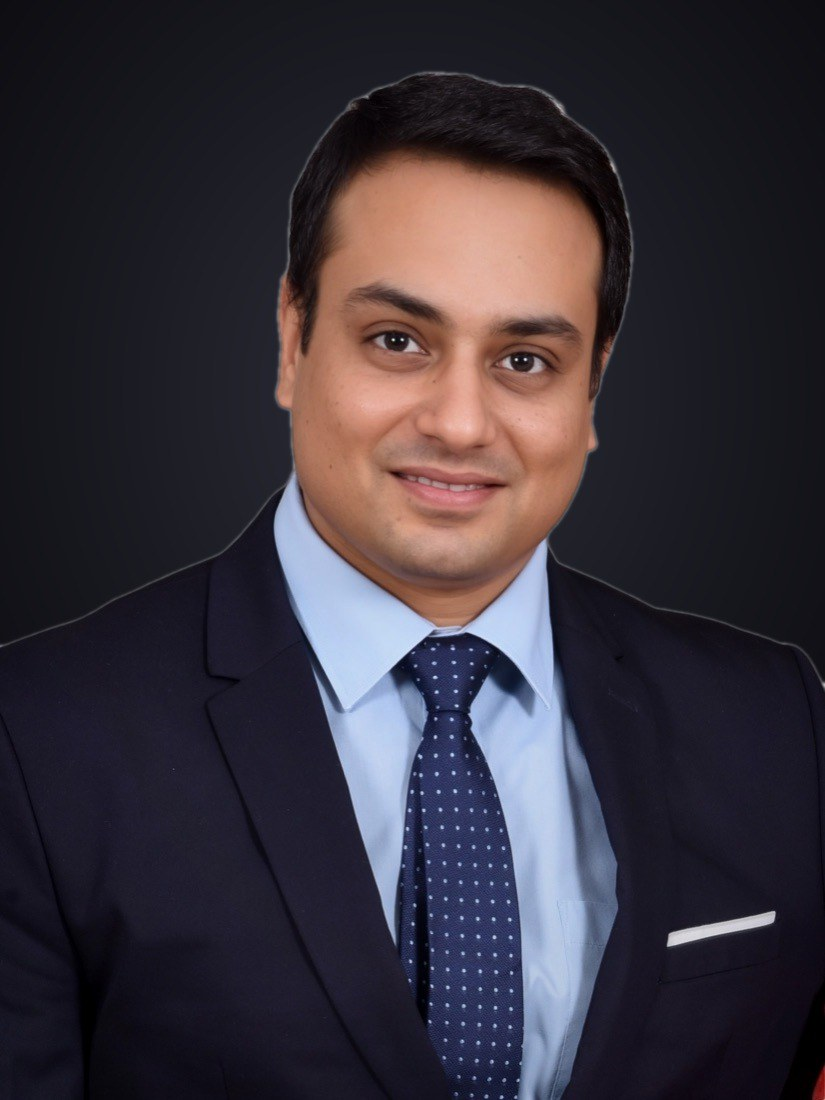
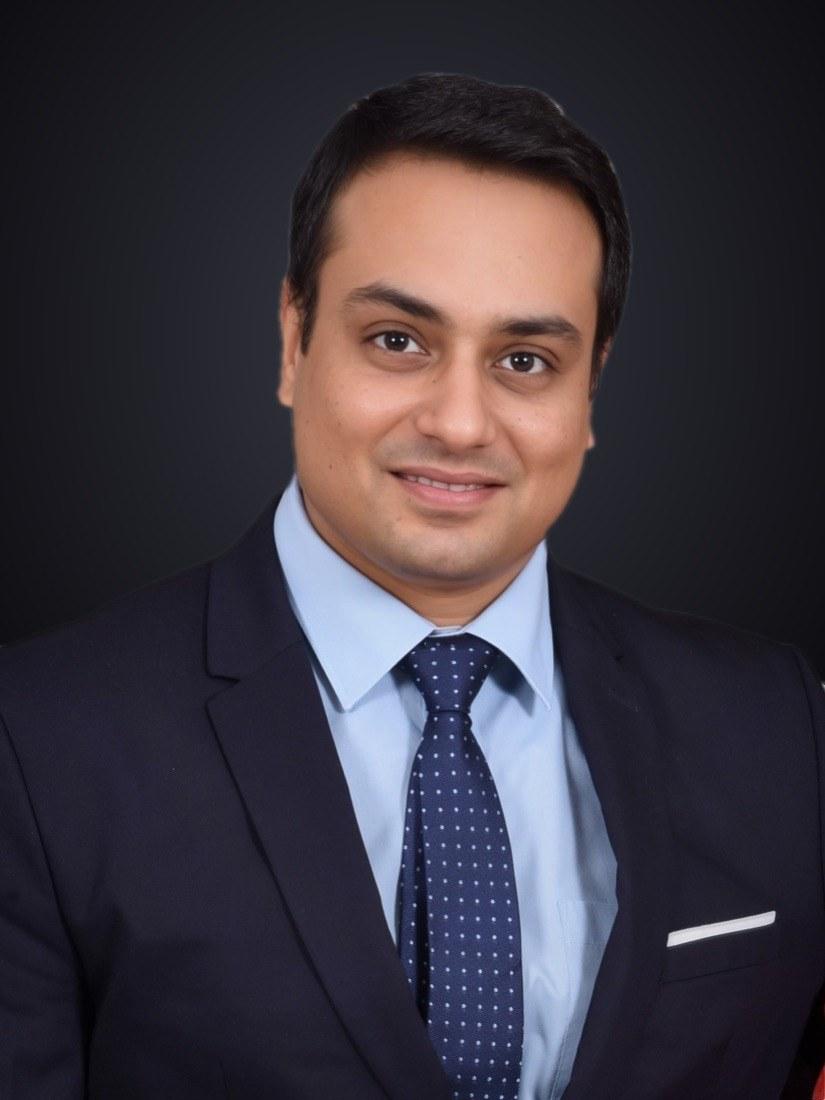
Rework studio headshot: lighter graduated backdrop, suit separation, clean edges (v3)

diff --git a/index.html b/index.html
@@ -12,8 +12,8 @@
 <meta property="og:url" content="https://vaibhav-sn-ai.netlify.app/" />
 <meta property="og:title" content="Vaibhav Aggarwal · Head of Applied AI" />
 <meta property="og:description" content="ServiceNow AI Specialist. Builder of Dev Accelerator and the Knowledge Quality Accelerator. Handpicked by the ServiceNow Customer Excellence Group. 30,000+ followers." />
-<meta property="og:image" content="https://vaibhav-sn-ai.netlify.app/og-image.jpg?v=2" />
-<meta property="og:image:secure_url" content="https://vaibhav-sn-ai.netlify.app/og-image.jpg?v=2" />
+<meta property="og:image" content="https://vaibhav-sn-ai.netlify.app/og-image.jpg?v=3" />
+<meta property="og:image:secure_url" content="https://vaibhav-sn-ai.netlify.app/og-image.jpg?v=3" />
 <meta property="og:image:type" content="image/jpeg" />
 <meta property="og:image:width" content="1200" />
 <meta property="og:image:height" content="630" />
@@ -21,7 +21,7 @@
 <meta name="twitter:card" content="summary_large_image" />
 <meta name="twitter:title" content="Vaibhav Aggarwal · Head of Applied AI" />
 <meta name="twitter:description" content="ServiceNow AI Specialist. Builder of Dev Accelerator and the Knowledge Quality Accelerator. 30,000+ followers." />
-<meta name="twitter:image" content="https://vaibhav-sn-ai.netlify.app/og-image.jpg?v=2" />
+<meta name="twitter:image" content="https://vaibhav-sn-ai.netlify.app/og-image.jpg?v=3" />
 <link rel="preconnect" href="https://fonts.googleapis.com" />
 <link rel="preconnect" href="https://fonts.gstatic.com" crossorigin />
 <link href="https://fonts.googleapis.com/css2?family=Playfair+Display:ital,wght@0,400;0,500;0,600;0,700;1,400;1,500&family=Inter:wght@300;400;500;600;700&family=Manrope:wght@400;500;600;700;800&display=swap" rel="stylesheet" />
@@ -663,7 +663,7 @@
     <div class="hero-portrait">
       <span class="portrait-ring"></span>
       <div class="portrait-frame">
-        <img src="assets/vaibhav.jpg?v=2" alt="Vaibhav Aggarwal" loading="eager"
+        <img src="assets/vaibhav.jpg?v=3" alt="Vaibhav Aggarwal" loading="eager"
              onerror="this.style.display='none';this.closest('.portrait-frame').classList.add('noimg')" />
         <div class="portrait-badge">
           <span class="pb-ic">VA</span>